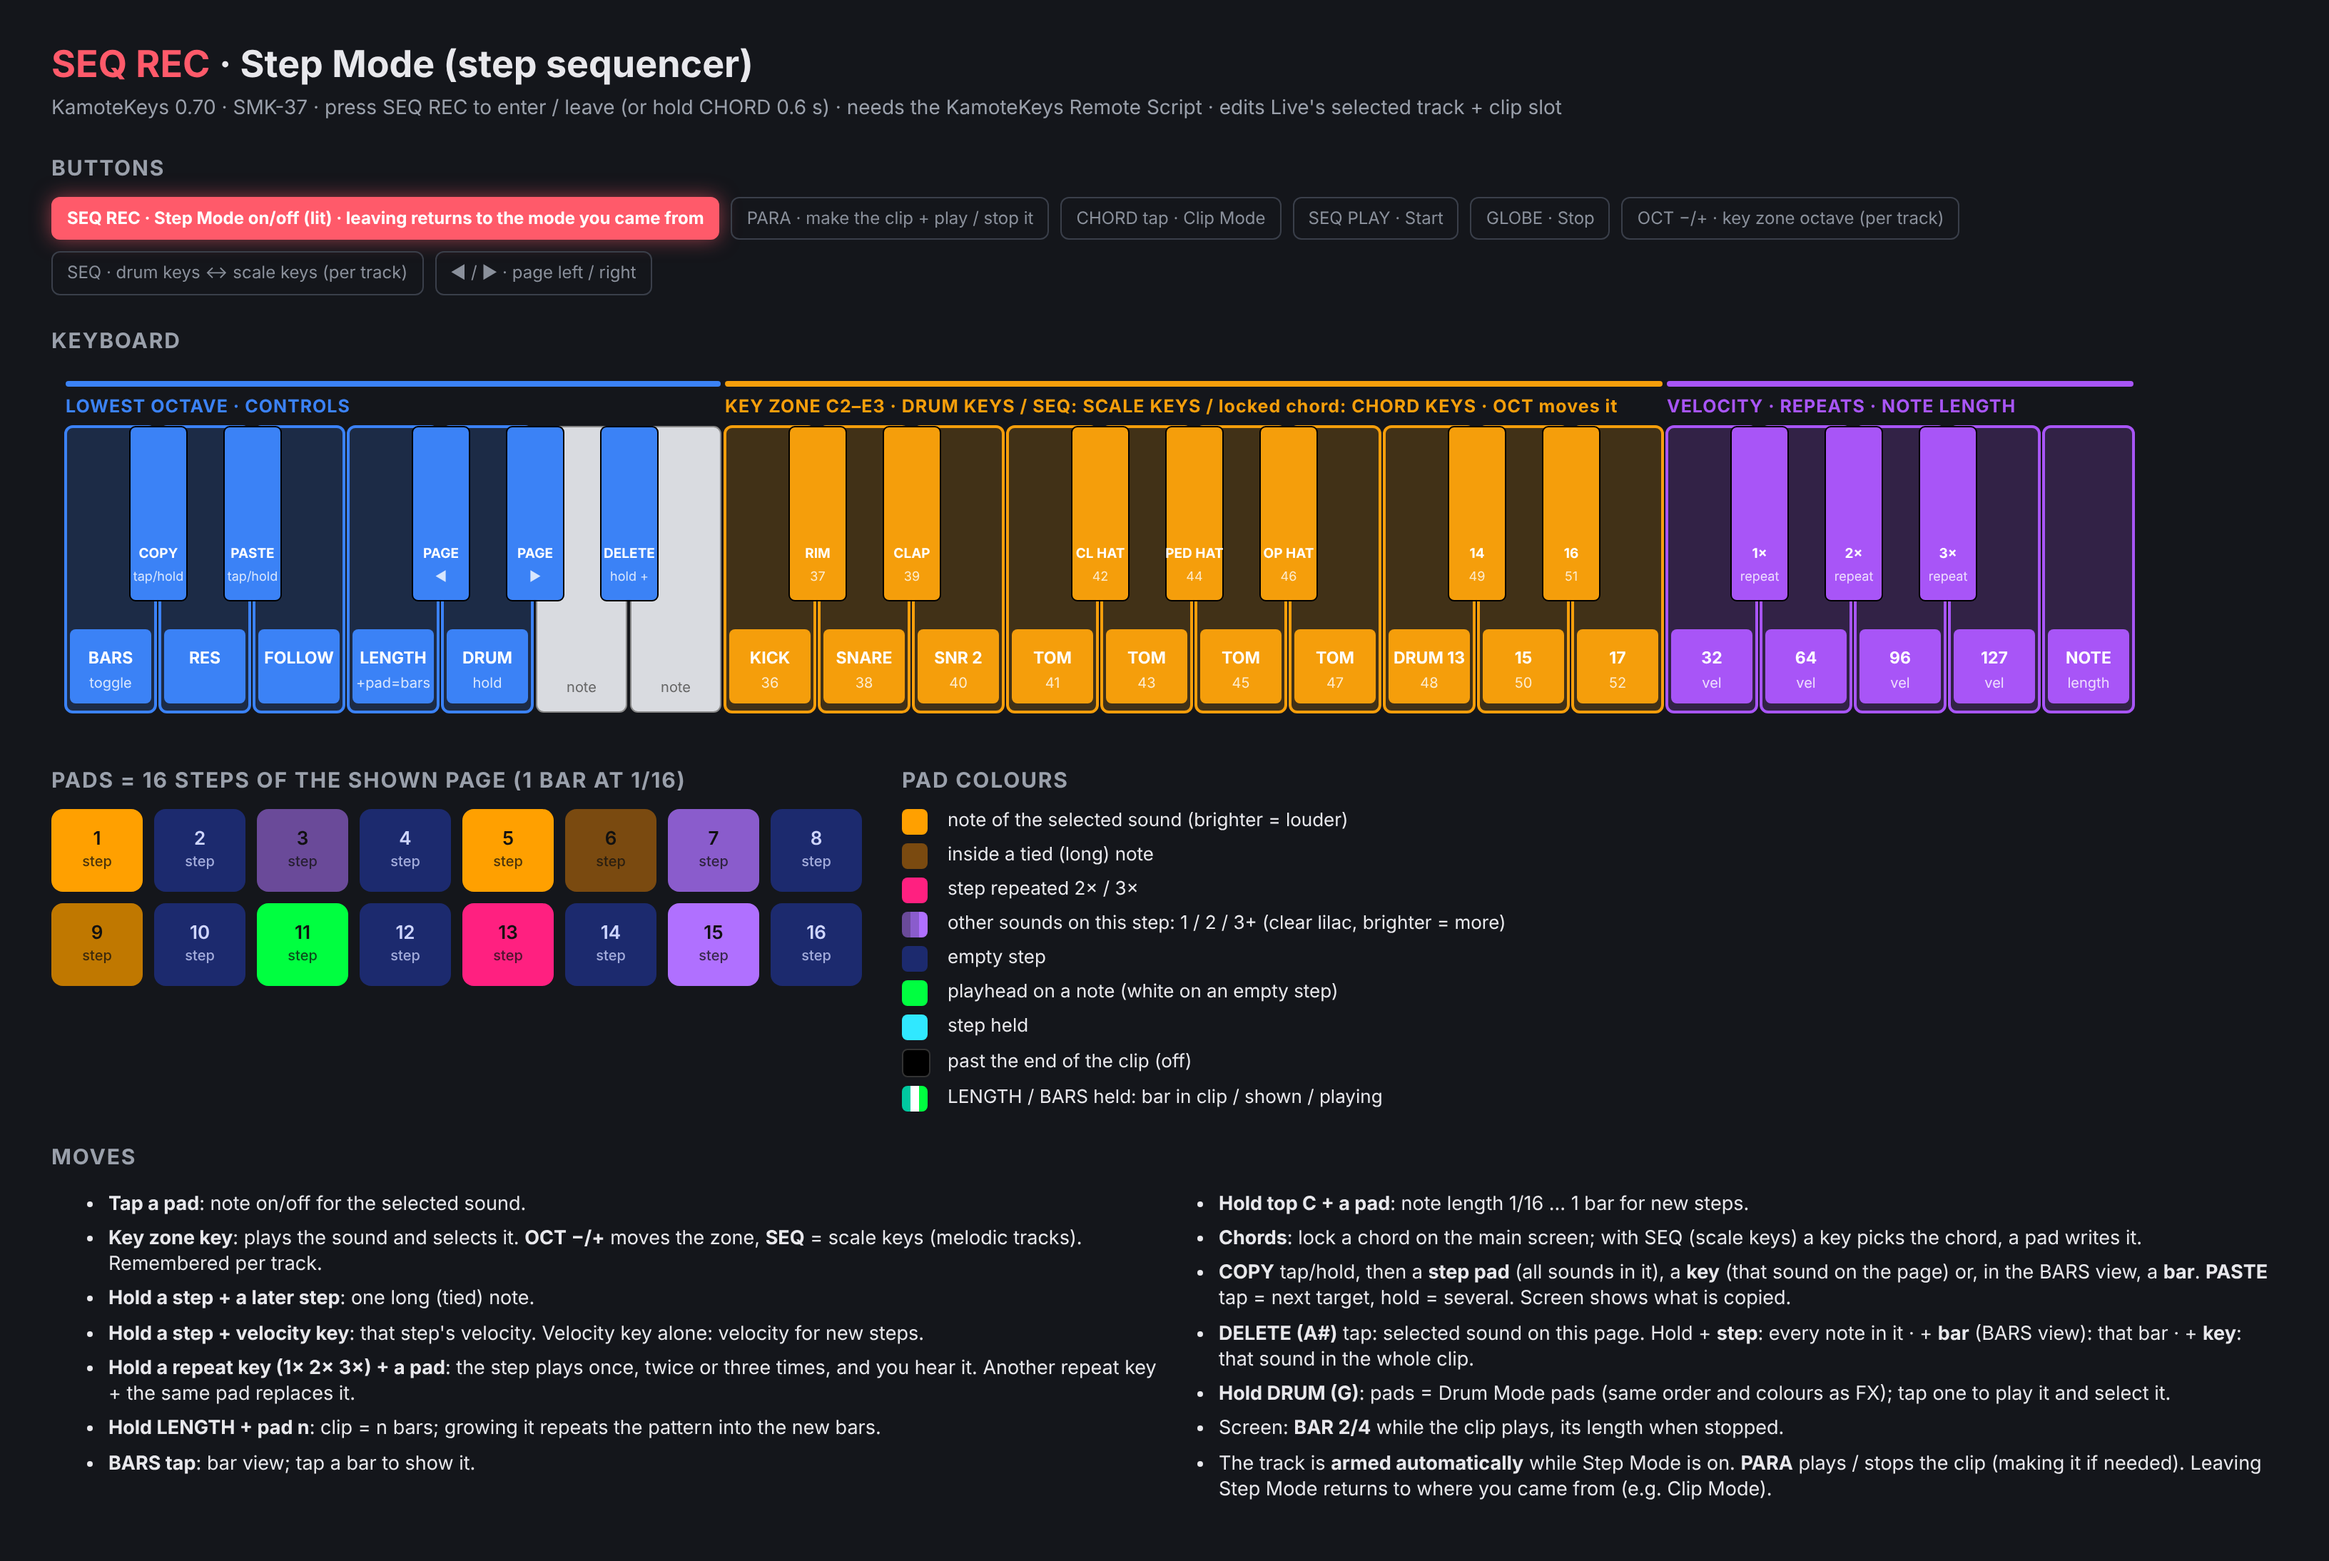
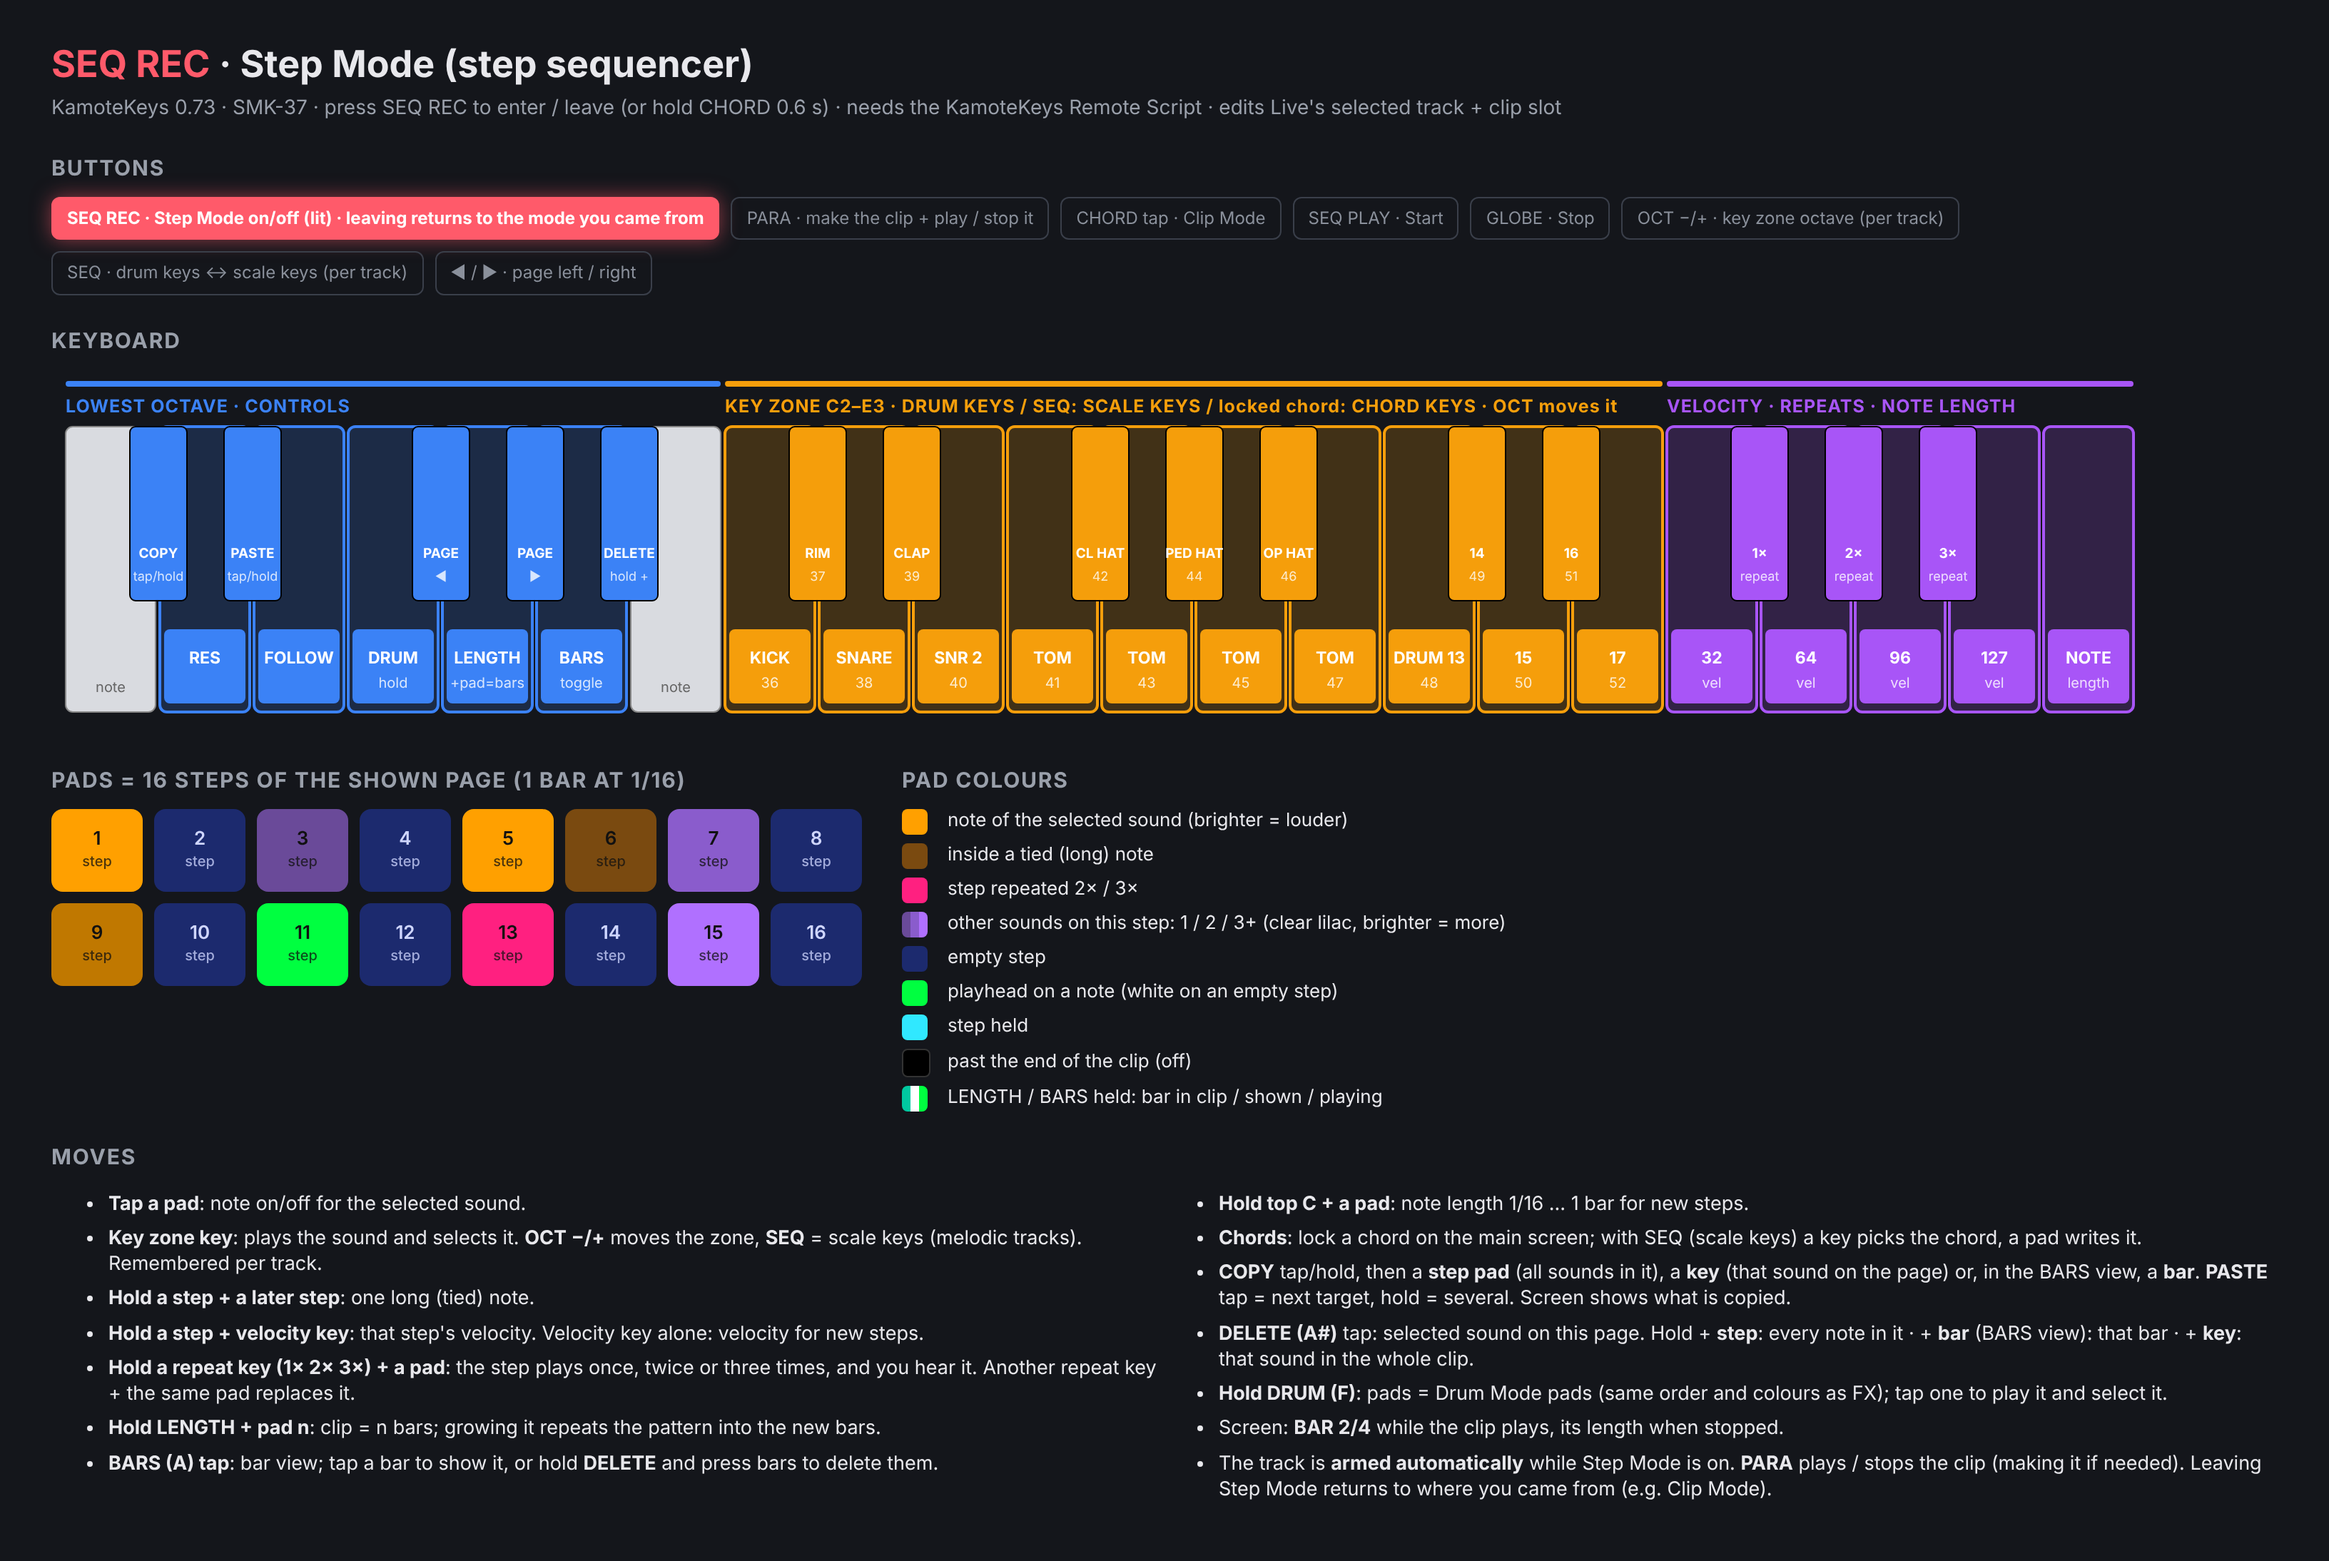
KamoteKeys 0.73: Step Mode F DRUM, G LENGTH, A BARS (DELETE + bar in the bar view)
Claude-Session: https://claude.ai/code/session_014nKCDtX9z2HT4cnrjTFgfW

diff --git a/tests/host/test_features.c b/tests/host/test_features.c
@@ -37,15 +37,15 @@ void test_step_mode(void)
     btn(KK_BTN_CHORD, 0); CHECK(kk.mode == KK_MODE_STEP && kk_led_button(KK_BTN_REC) == 2, "release keeps Step Mode, SEQ REC lit");
     host_clear(); pad(3, 90); pad(3, 0);
     CHECK(out_count(USB, 0x9D, 38) == 1 && out_count(USB, 0x8D, 38) == 1 && host_local_n == 0, "pad 3 -> ch 14 note 38, never the synth");
-    host_clear(); key(7, 100); key(6, 100); key(6, 0); key(8, 100); key(8, 0); key(7, 0);
+    host_clear(); key(5, 100); key(6, 100); key(6, 0); key(8, 100); key(8, 0); key(5, 0);
     CHECK(out_count(USB, 0x9D, KK_STEP_DRUM) == 1 && out_count(USB, 0x9D, KK_STEP_PAGE_PREV) == 1 && out_count(USB, 0x9D, KK_STEP_PAGE_NEXT) == 1 &&
-          out_count(USB, 0x8D, KK_STEP_DRUM) == 1, "0.70: G = DRUM (hold), F# / G# = page");
-    host_clear(); key(0, 100); key(0, 0); key(2, 100); key(2, 0); key(4, 100); key(4, 0); key(10, 100); key(10, 0);
-    CHECK(out_count(USB, 0x9D, KK_STEP_BARS) == 1 && out_count(USB, 0x9D, KK_STEP_RESOLUTION) == 1 &&
-          out_count(USB, 0x9D, KK_STEP_FOLLOW) == 1 && out_count(USB, 0x9D, KK_STEP_CLEAR) == 1 && !kk.step_single,
-          "0.70: C = BARS, D = RES, E = FOLLOW, A# = DELETE; no chord toggle");
-    host_clear(); key(9, 100); key(9, 0); key(11, 100); key(11, 0);
-    CHECK(out_count(USB, 0x90, -1) == 2 && out_count(USB, 0x9D, -1) == 0, "A and B play notes");
+          out_count(USB, 0x8D, KK_STEP_DRUM) == 1, "0.73: F = DRUM (hold), F# / G# = page");
+    host_clear(); key(2, 100); key(2, 0); key(4, 100); key(4, 0); key(7, 100); key(7, 0); key(9, 100); key(9, 0); key(10, 100); key(10, 0);
+    CHECK(out_count(USB, 0x9D, KK_STEP_RESOLUTION) == 1 && out_count(USB, 0x9D, KK_STEP_FOLLOW) == 1 && out_count(USB, 0x9D, KK_STEP_LENGTH) == 1 &&
+          out_count(USB, 0x9D, KK_STEP_BARS) == 1 && out_count(USB, 0x9D, KK_STEP_CLEAR) == 1,
+          "0.73: D = RES, E = FOLLOW, G = LENGTH, A = BARS, A# = DELETE");
+    host_clear(); key(0, 100); key(0, 0); key(11, 100); key(11, 0);
+    CHECK(out_count(USB, 0x90, -1) == 2 && out_count(USB, 0x9D, -1) == 0, "C and B play notes");
     /* 0.62 key map: velocity = the last five white keys, repeats = top F# G# A#,
      * BARS = lowest F#; the lowest G# and third-octave C still play. */
     host_clear(); key(29, 100); key(29, 0); key(35, 100); key(35, 0); key(36, 100); key(36, 0); key(30, 100); key(30, 0); key(34, 100); key(34, 0);
@@ -86,14 +86,14 @@ void test_step_mode(void)
     CHECK(out_count(USB, 0xBD, KK_STEP_SYNC_CC) >= 1 && out_count(BLE, 0xBD, KK_STEP_SYNC_CC) >= 1, "Step Mode heartbeat on every port");
     host_in(0xBD, KK_STEP_KEYS_CC, (uint8_t)keys_were);
     /* 0.68: DRUM (G) held: pads = Drum Mode pads (same order and colours), they play and select. */
-    host_in(0xBD, KK_STEP_KEYS_CC, 0); host_clear(); key(7, 100); pad(1, 100); pad(1, 0); pad(9, 100); pad(9, 0); pad(2, 100); pad(2, 0);
+    host_in(0xBD, KK_STEP_KEYS_CC, 0); host_clear(); key(5, 100); pad(1, 100); pad(1, 0); pad(9, 100); pad(9, 0); pad(2, 100); pad(2, 0);
     CHECK(out_count(USB, 0x99, 36) == 1 && out_count(USB, 0x99, 37) == 1 && out_count(USB, 0x99, 38) == 1 &&
           out_count(USB, 0x9C, 36) == 1 && out_count(USB, 0x9C, 38) == 1 && out_count(USB, 0x9D, 36) == 0,
           "DRUM held: pad 1 / 9 / 2 = kick 36 / rim 37 / snare 38 on ch 10, selected on ch 13, no step");
     settle();
     CHECK(((host_rgb[0] >> 16) & 255) > ((host_rgb[0] >> 8) & 255) * 3 && ((host_rgb[1] >> 16) & 255) > (host_rgb[1] & 255),
           "DRUM held: Drum Mode colours (kick red %06x, snare orange %06x)", host_rgb[0], host_rgb[1]);
-    key(7, 0); host_clear(); pad(1, 100); pad(1, 0);
+    key(5, 0); host_clear(); pad(1, 100); pad(1, 0);
     CHECK(out_count(USB, 0x9D, 36) == 1 && out_count(USB, 0x99, -1) == 0, "DRUM released: pads are steps again");
     /* 0.63: a locked chord + scale keys: a key picks the whole chord. */
     host_in(0xBD, KK_STEP_KEYS_CC, 1);
@@ -166,9 +166,9 @@ void test_bluetooth(void)
     host_ble_busy = 3; pad(1, 100); pad(1, 0);                /* a step */
     host_ble_busy = 1; key(1, 100); key(1, 0);                /* COPY */
     host_ble_busy = 2; key(12, 100); key(12, 0);              /* key zone: kick (ch 10) + select (ch 13) */
-    host_ble_busy = 1; key(5, 100); pad(2, 100); pad(2, 0); key(5, 0);   /* LENGTH + pad */
+    host_ble_busy = 1; key(7, 100); pad(2, 100); pad(2, 0); key(7, 0);   /* LENGTH + pad */
     host_ble_busy = 2; tap(KK_BTN_OCT_UP); tap(KK_BTN_SEQ); tap(KK_BTN_PARA); tap(KK_BTN_LEFT); tap(KK_BTN_RIGHT);
-    host_ble_busy = 1; key(7, 100); pad(9, 100); pad(9, 0); key(7, 0);   /* DRUM view pad: rim */
+    host_ble_busy = 1; key(5, 100); pad(9, 100); pad(9, 0); key(5, 0);   /* DRUM view pad: rim */
     frames(20, 5);
     CHECK(ble_count(0x9D, 36) == 1 && ble_count(0x8D, 36) == 1, "BLE: step pad on/off");
     CHECK(ble_count(0x9D, KK_STEP_COPY) == 1 && ble_count(0x8D, KK_STEP_COPY) == 1, "BLE: COPY on/off");

diff --git a/devices/smk37/app/kamotkeys/kk_device.h b/devices/smk37/app/kamotkeys/kk_device.h
@@ -53,14 +53,14 @@ enum { KK_CLIP_SELECT_KEY = 255, KK_SCENE_LAUNCH_KEY = 30, KK_SCENE_UP_KEY = 32,
 static inline int kk_step_key_function(unsigned key)
 {
     switch (key) {
-    /* 0.70 lowest octave: C BARS, D RESOLUTION, E FOLLOW, F LENGTH, G DRUM;
+    /* 0.73 lowest octave: D RESOLUTION, E FOLLOW, F DRUM, G LENGTH, A BARS;
      * black: C# COPY, D# PASTE, F# / G# page, A# DELETE (hold + step / bar / key).
-     * A and B play notes. */
-    case 0: return KK_STEP_BARS;        /* C  tap: bar view */
+     * C and B play notes. */
     case 2: return KK_STEP_RESOLUTION;  /* D */
     case 4: return KK_STEP_FOLLOW;      /* E */
-    case 5: return KK_STEP_LENGTH;      /* F  hold + pad n = n bars */
-    case 7: return KK_STEP_DRUM;        /* G  hold: pads = Drum Mode pads */
+    case 5: return KK_STEP_DRUM;        /* F  hold: pads = Drum Mode pads */
+    case 7: return KK_STEP_LENGTH;      /* G  hold + pad n = n bars */
+    case 9: return KK_STEP_BARS;        /* A  tap: bar view (DELETE + bar deletes it) */
     case 1: return KK_STEP_COPY;        /* C# tap: copy the next step / key / bar */
     case 3: return KK_STEP_PASTE;       /* D# tap: paste onto the next one; hold: several */
     case 6: return KK_STEP_PAGE_PREV;   /* F# */

diff --git a/core/kamotkeys/kk_config.h b/core/kamotkeys/kk_config.h
@@ -12,7 +12,7 @@
 #define KK_CONFIG_H
 
 #define KAMOTKEYS_NAME "KamoteKeys"
-#define KAMOTKEYS_VERSION "0.72" KK_DEVICE_SUFFIX
+#define KAMOTKEYS_VERSION "0.73" KK_DEVICE_SUFFIX
 #define KAMOTKEYS_TITLE KAMOTKEYS_NAME " " KAMOTKEYS_VERSION
 
 /* MIDI channels, zero based (channel 1 = 0). */

diff --git a/README.md b/README.md
@@ -164,7 +164,7 @@ Pads 1–8 launch clip 1 and pads 9–16 clip 2 of Live tracks 1–8, on channel
 
 ### Step Mode (SEQ REC, or hold CHORD)
 
-A step sequencer that writes straight into the selected session clip in Live, laid out like Ableton Move: 16 pads = 16 steps per page; the **second octave = drum keys** (C = kick … B): a key plays its sound and selects it for the steps. **OCT −/+** moves those keys by an octave and **SEQ** turns them into scale keys (for melodic tracks); both are remembered per track. The **lowest octave = controls** (white: BARS, RESOLUTION, FOLLOW, LENGTH + pad = bars, DRUM; black: COPY, PASTE, page ◀ ▶, DELETE); **PARA** makes and plays / stops the clip; leaving Step Mode returns to the mode you came from; the key zone runs from C2 to E3; **top F G A B = velocity 32 / 64 / 96 / 127**, **hold the top C** to set the note length on the pads, the **top three black keys = 1× / 2× / 3× repeats** (hold + a pad). A chord locked on the main screen is written into the steps as a chord. Other sounds on a step show as a violet tint; the screen shows the bar the clip is playing. The sequenced track is armed while Step Mode is on. Needs the Remote Script; full guide in [docs/ABLETON_REMOTE_SCRIPT.md](docs/ABLETON_REMOTE_SCRIPT.md#step-mode-drum-step-sequencer-058).
+A step sequencer that writes straight into the selected session clip in Live, laid out like Ableton Move: 16 pads = 16 steps per page; the **second octave = drum keys** (C = kick … B): a key plays its sound and selects it for the steps. **OCT −/+** moves those keys by an octave and **SEQ** turns them into scale keys (for melodic tracks); both are remembered per track. The **lowest octave = controls** (white: RESOLUTION, FOLLOW, DRUM, LENGTH + pad = bars, BARS; black: COPY, PASTE, page ◀ ▶, DELETE); **PARA** makes and plays / stops the clip; leaving Step Mode returns to the mode you came from; the key zone runs from C2 to E3; **top F G A B = velocity 32 / 64 / 96 / 127**, **hold the top C** to set the note length on the pads, the **top three black keys = 1× / 2× / 3× repeats** (hold + a pad). A chord locked on the main screen is written into the steps as a chord. Other sounds on a step show as a violet tint; the screen shows the bar the clip is playing. The sequenced track is armed while Step Mode is on. Needs the Remote Script; full guide in [docs/ABLETON_REMOTE_SCRIPT.md](docs/ABLETON_REMOTE_SCRIPT.md#step-mode-drum-step-sequencer-058).
 
 ### Pad Scale Mode (SCALE)
 

diff --git a/docs/ABLETON_REMOTE_SCRIPT.md b/docs/ABLETON_REMOTE_SCRIPT.md
@@ -124,7 +124,7 @@ Colours: see the table below.
 
 | Keys | Do |
 |---|---|
-| lowest octave, white | C = BARS (tap), D = RESOLUTION, E = FOLLOW, F = LENGTH (hold), G = DRUM (hold); A, B play notes |
+| lowest octave, white | D = RESOLUTION, E = FOLLOW, F = DRUM (hold), G = LENGTH (hold), A = BARS (tap); C, B play notes |
 | lowest octave, black | C# = COPY, D# = PASTE, F# / G# = page ◀ / ▶, A# = DELETE (tap: the page; hold + step / bar / key) |
 | **key zone**: C2 up to E3 (17 keys) | drum keys: 17 sounds from C1 (kick, rim, snare, clap …); with SEQ: scale keys; with a locked chord: chord keys |
 | top F G A B | velocity 32 / 64 / 96 / 127 |

diff --git a/CHANGELOG.md b/CHANGELOG.md
@@ -1,5 +1,9 @@
 # Changelog
 
+## KamoteKeys 0.73 (development snapshot)
+
+- **Step Mode white keys rearranged (SMK-37):** D RESOLUTION, E FOLLOW, **F DRUM (hold)**, **G LENGTH**, **A BARS**; C and B play notes. In the bar view (A), hold DELETE (A#) and press bars to delete them.
+
 ## KamoteKeys 0.72 (development snapshot)
 
 - **Clip Mode overdub key (SMK-37):** hold the lowest C and press a clip to overdub into it (an empty slot: arm the track and record a new clip); pressing it again ends the overdub. The screen shows OVERDUB while C is held.
